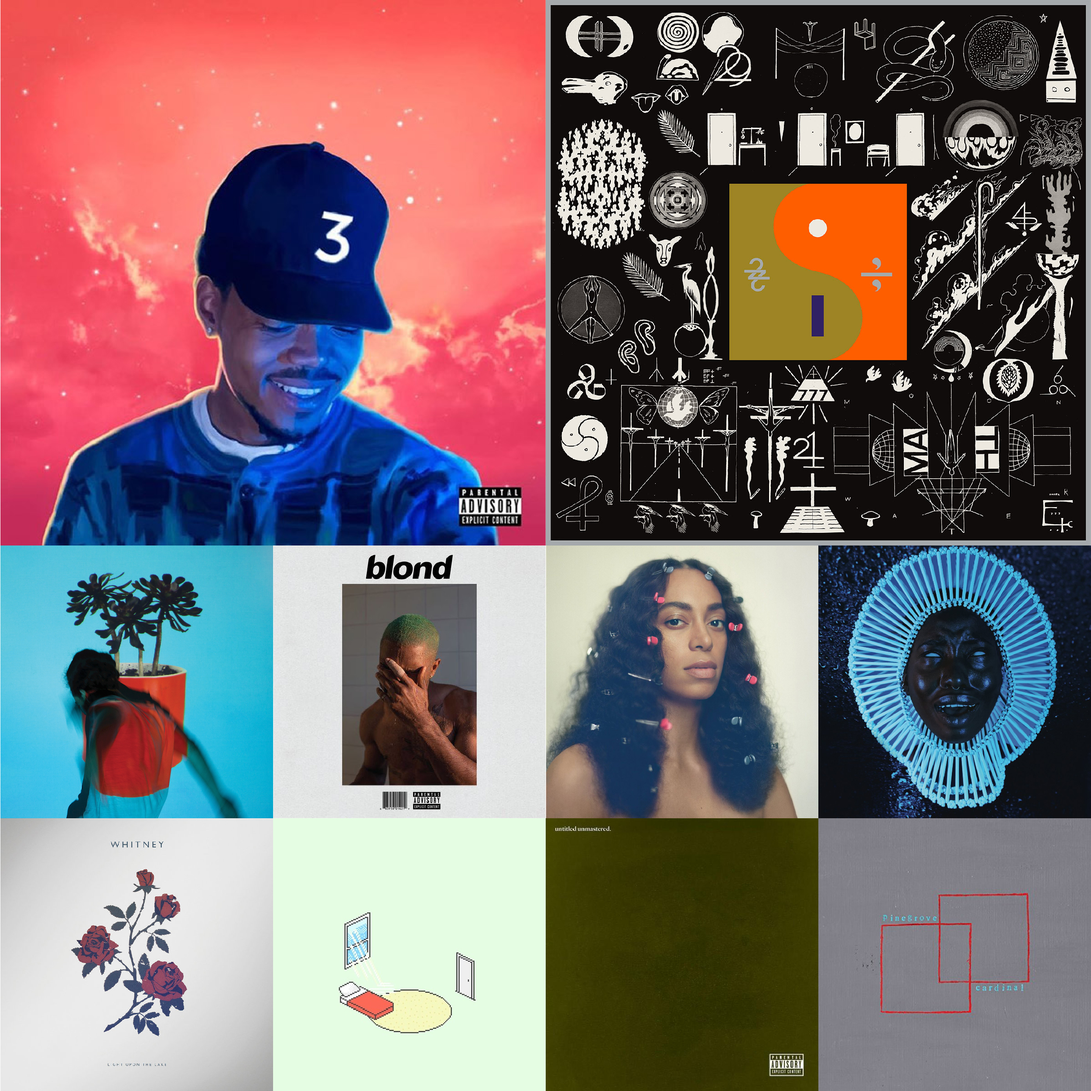
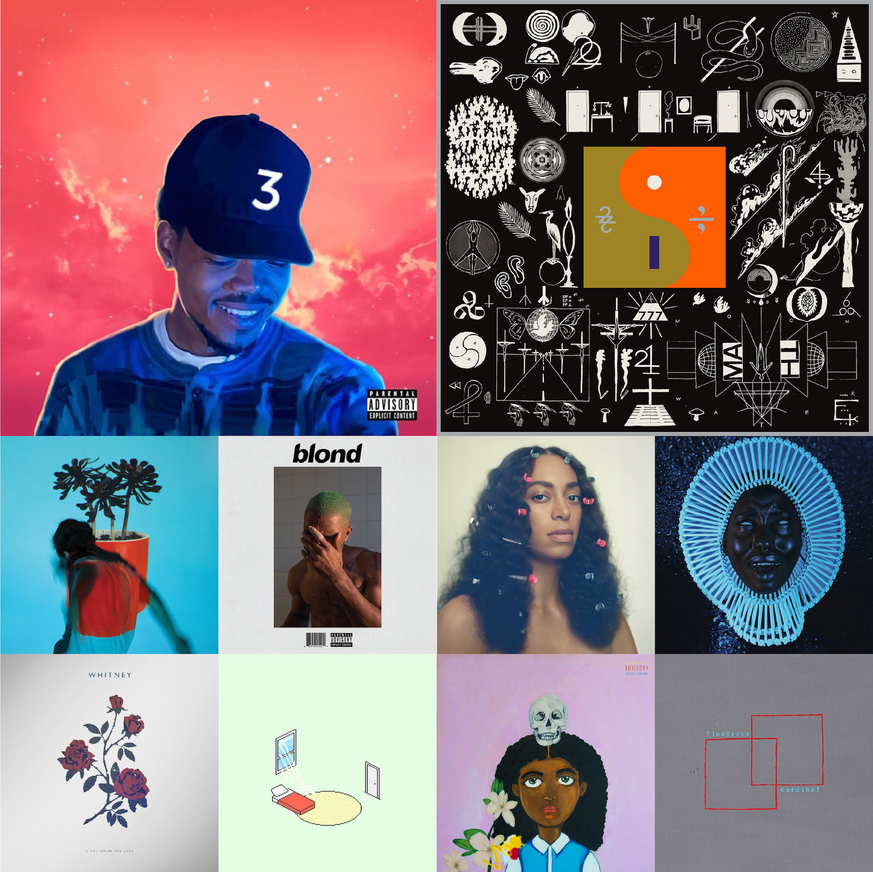
add spotify links

diff --git a/index.html b/index.html
@@ -22,7 +22,7 @@
 
   <main>
     <div class="wrap">
-      <h2>Best of 2016</h2>
+      <h2 id="2016">Best of 2016</h2>
 
       <div class="top-list">
         <img src="/assets/img/jamo-2016.jpg" class="top-list__image">
@@ -35,26 +35,31 @@
               <td>01</td>
               <td class="album-title">Coloring Book</td>
               <td class="artist">Chance the Rapper</td>
+              <td class="links"><a href="https://open.spotify.com/album/71QyofYesSsRMwFOTafnhB" class="album-link"><img src="/assets/img/spotify.png" alt="View on Spotify" class="album-link__icon"></a></td>
             </tr>
             <tr>
               <td>02</td>
               <td class="album-title">Blonde</td>
               <td class="artist">Frank Ocean</td>
+              <td class="links"><a href="https://open.spotify.com/album/3mH6qwIy9crq0I9YQbOuDf" class="album-link"><img src="/assets/img/spotify.png" alt="View on Spotify" class="album-link__icon"></a></td>
             </tr>
             <tr>
               <td>03</td>
               <td class="album-title">22, A Million</td>
               <td class="artist">Bon Iver</span></td>
+              <td class="links"><a href="https://open.spotify.com/album/1PgfRdl3lPyACfUGH4pquG" class="album-link"><img src="/assets/img/spotify.png" alt="View on Spotify" class="album-link__icon"></a></td>
             </tr>
             <tr>
               <td>04</td>
               <td class="album-title">A Seat at the Table</td>
               <td class="artist">Solange</span></td>
+              <td class="links"><a href="https://open.spotify.com/album/3Yko2SxDk4hc6fncIBQlcM" class="album-link"><img src="/assets/img/spotify.png" alt="View on Spotify" class="album-link__icon"></a></td>
             </tr>
             <tr>
               <td>05</td>
               <td class="album-title">The Life of Pablo</td>
               <td class="artist">Kanye West</span></td>
+              <td class="links"><a href="https://open.spotify.com/album/7gsWAHLeT0w7es6FofOXk1" class="album-link"><img src="/assets/img/spotify.png" alt="View on Spotify" class="album-link__icon"></a></td>
             </tr>
             <tr>
               <td>06</td>
@@ -65,21 +70,25 @@
               <td>07</td>
               <td class="album-title">Telefone</td>
               <td class="artist">Noname</span></td>
+              <td class="links"><a href="https://open.spotify.com/album/18Scpsg5OV1iYNtSaCsjwz" class="album-link"><img src="/assets/img/spotify.png" alt="View on Spotify" class="album-link__icon"></a></td>
             </tr>
             <tr>
               <td>08</td>
               <td class="album-title">Light Upon the Lake</td>
               <td class="artist">Whitney</td>
+              <td class="links"><a href="https://open.spotify.com/album/5yMCA6HdFAeL1aqUjxO3MO" class="album-link"><img src="/assets/img/spotify.png" alt="View on Spotify" class="album-link__icon"></a></td>
             </tr>
             <tr>
               <td>09</td>
               <td class="album-title">We got it from Here… Thank You 4 Your service</td>
               <td class="artist">A Tribe Called Quest</span></td>
+              <td class="links"><a href="https://open.spotify.com/album/3WvQpufOsPzkZvcSuynCf3" class="album-link"><img src="/assets/img/spotify.png" alt="View on Spotify" class="album-link__icon"></a></td>
             </tr>
             <tr>
               <td>10</td>
               <td class="album-title">"Awaken, My Love!"</td>
               <td class="artist">Childish Gambino</span></td>
+              <td class="links"><a href="https://open.spotify.com/album/4xnq1L6P551Qcb9gBXNMK7" class="album-link"><img src="/assets/img/spotify.png" alt="View on Spotify" class="album-link__icon"></a></td>
             </tr>
           </table>
         </div>
@@ -96,51 +105,61 @@
               <td>01</td>
               <td class="album-title">Coloring Book</td>
               <td class="artist">Chance the Rapper</span></td>
+              <td class="links"><a href="https://open.spotify.com/album/71QyofYesSsRMwFOTafnhB" class="album-link"><img src="/assets/img/spotify.png" alt="View on Spotify" class="album-link__icon"></a></td>
             </tr>
             <tr>
               <td>02</td>
-              <td class="album-title">22, A Miltdon</td>
+              <td class="album-title">22, A Milion</td>
               <td class="artist">Bon Iver</span></td>
+              <td class="links"><a href="https://open.spotify.com/album/1PgfRdl3lPyACfUGH4pquG" class="album-link"><img src="/assets/img/spotify.png" alt="View on Spotify" class="album-link__icon"></a></td>
             </tr>
             <tr>
               <td>03</td>
-              <td class="album-title">Suntdt Youth</td>
+              <td class="album-title">Sunlit Youth</td>
               <td class="artist">Local Natives</span></td>
+              <td class="links"><a href="https://open.spotify.com/album/2qiPY1CqHGexT4yWrQ5uX0" class="album-link"><img src="/assets/img/spotify.png" alt="View on Spotify" class="album-link__icon"></a></td>
             </tr>
             <tr>
               <td>04</td>
               <td class="album-title">Blonde</td>
               <td class="artist">Frank Ocean</span></td>
+              <td class="links"><a href="https://open.spotify.com/album/3mH6qwIy9crq0I9YQbOuDf" class="album-link"><img src="/assets/img/spotify.png" alt="View on Spotify" class="album-link__icon"></a></td>
             </tr>
             <tr>
               <td>05</td>
               <td class="album-title">A Seat at the Table</td>
               <td class="artist">Solange</span></td>
+              <td class="links"><a href="https://open.spotify.com/album/3Yko2SxDk4hc6fncIBQlcM" class="album-link"><img src="/assets/img/spotify.png" alt="View on Spotify" class="album-link__icon"></a></td>
             </tr>
             <tr>
               <td>06</td>
               <td class="album-title">"Awaken, My Love!"</td>
               <td class="artist">Childish Gambino</span></td>
+              <td class="links"><a href="https://open.spotify.com/album/4xnq1L6P551Qcb9gBXNMK7" class="album-link"><img src="/assets/img/spotify.png" alt="View on Spotify" class="album-link__icon"></a></td>
             </tr>
             <tr>
               <td>07</td>
-              <td class="album-title">tdght Upon the Lake</td>
+              <td class="album-title">Light Upon the Lake</td>
               <td class="artist">Whitney</span></td>
+              <td class="links"><a href="https://open.spotify.com/album/5yMCA6HdFAeL1aqUjxO3MO" class="album-link"><img src="/assets/img/spotify.png" alt="View on Spotify" class="album-link__icon"></a></td>
             </tr>
             <tr>
               <td>08</td>
               <td class="album-title">The Birds Outside Sang</td>
               <td class="artist">Florist</span></td>
+              <td class="links"><a href="https://open.spotify.com/album/1AEMVhX7zBTMSXVXcZeFpU" class="album-link"><img src="/assets/img/spotify.png" alt="View on Spotify" class="album-link__icon"></a></td>
             </tr>
             <tr>
-              <td>09</td>
-              <td class="album-title">untitled. unmastered.</td>
-              <td class="artist">Kendrick Lamar</span></td>
+              <td>07</td>
+              <td class="album-title">Telefone</td>
+              <td class="artist">Noname</span></td>
+              <td class="links"><a href="https://open.spotify.com/album/18Scpsg5OV1iYNtSaCsjwz" class="album-link"><img src="/assets/img/spotify.png" alt="View on Spotify" class="album-link__icon"></a></td>
             </tr>
             <tr>
               <td>10</td>
               <td class="album-title">Cardinal</td>
               <td class="artist">Pinegrove</span></td>
+              <td class="links"><a href="https://open.spotify.com/album/2SmrUzUMMOYQqoPuOhlhjw" class="album-link"><img src="/assets/img/spotify.png" alt="View on Spotify" class="album-link__icon"></a></td>
             </tr>
           </table>
         </div>

diff --git a/style.css b/style.css
@@ -3,6 +3,8 @@
 }
 
 img {
+  height: auto;
+  width: auto;
   max-width: 100%;
 }
 
@@ -38,11 +40,17 @@ header {
 }
 
 .site-title {
-  font-size: 5rem;
+  font-size: 3rem;
   /*text-transform: uppercase;*/
   float: left;
   margin: 0;
   font-weight: bold;
+}
+
+@media (min-width: 768px) {
+  .site-title {
+    font-size: 5rem;
+  }
 }
 
 .column {
@@ -82,13 +90,19 @@ header {
   .top-list__image {
     max-width: 33%;
     float: left;
+    padding: 2rem;
   }
 }
 
 .top-list__info {
   padding: 2rem;
-  width: 66%;
-  float: left;
+}
+
+@media (min-width: 768px) {
+  .top-list__info {
+    width: 66%;
+    float: left;
+  }
 }
 
 .top-list__list {
@@ -114,6 +128,8 @@ header {
 .album-title {
   font-style: italic;
 }
+
+
 
 /*.artist {
   letter-spacing: 1px;
@@ -144,4 +160,21 @@ nav a {
     with: 50%;
     float: right;
   }
+}
+
+table {
+  width: 100%;
+}
+
+.album-link {
+  opacity: 0.5;
+}
+
+.album-link:hover {
+  opacity: 1;
+}
+
+.album-link__icon {
+  height: 1.25rem;
+  width: 1.25rem;
 }
